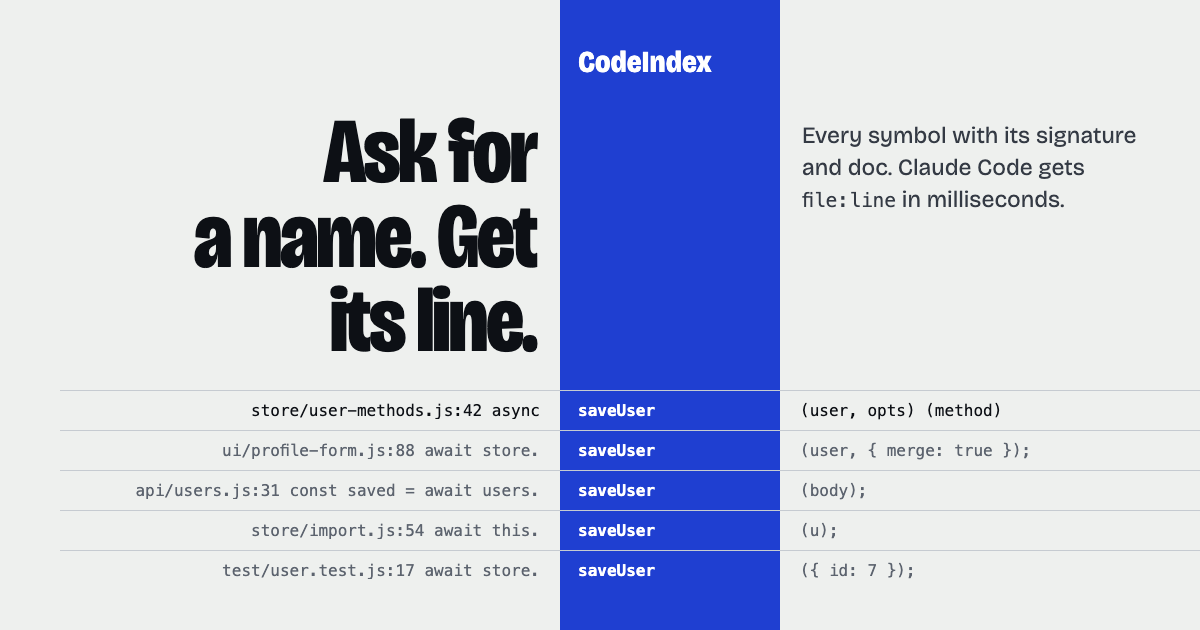
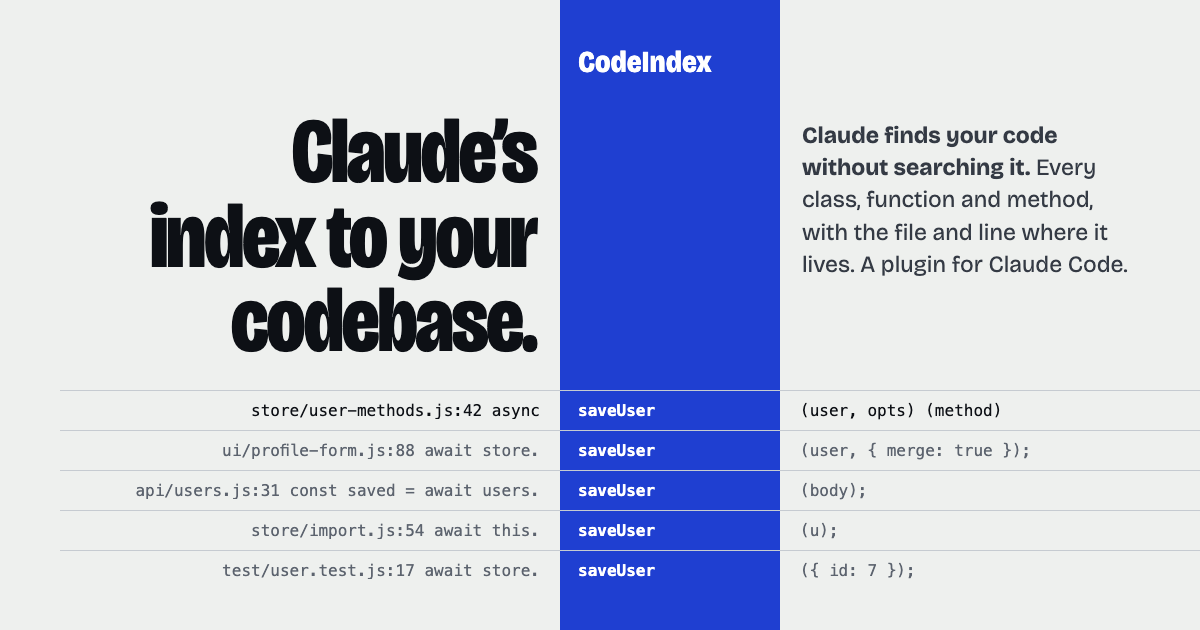
CodeIndex landing: Open Graph image and meta with the new slogan

Changed region(s): [[0.1233, 0.181, 0.4625, 0.573], [0.6475, 0.181, 0.9558, 0.3317], [0.6475, 0.3619, 0.925, 0.4524]]

diff --git a/plugins/code-index/index.html b/plugins/code-index/index.html
@@ -3,16 +3,16 @@
 <head>
 <meta charset="utf-8">
 <meta name="viewport" content="width=device-width, initial-scale=1">
-<title>CodeIndex — look up any symbol in your codebase</title>
+<title>CodeIndex — Claude’s index to your codebase</title>
 <meta name="description" content="CodeIndex keeps every class, function and method of your project with its signature and doc, so Claude Code answers “where is X?”, “who calls it?” and “what does this file need?” in milliseconds instead of searching the codebase again.">
 <meta property="og:type" content="website">
 <meta property="og:url" content="https://microbians.github.io/AI.SKILLS/plugins/code-index/">
-<meta property="og:title" content="CodeIndex — look up any symbol in your codebase">
-<meta property="og:description" content="Every symbol with its signature and doc. Claude Code gets file:line in milliseconds instead of searching the codebase again.">
+<meta property="og:title" content="CodeIndex — Claude’s index to your codebase">
+<meta property="og:description" content="Claude finds your code without searching it: every class, function and method, with the file and line where it lives. A plugin for Claude Code.">
 <meta property="og:image" content="https://microbians.github.io/AI.SKILLS/plugins/code-index/assets/og.png">
 <meta property="og:image:width" content="1200">
 <meta property="og:image:height" content="630">
-<meta property="og:image:alt" content="CodeIndex: lines of code aligned on the name saveUser inside a cobalt band">
+<meta property="og:image:alt" content="CodeIndex: Claude’s index to your codebase, with lines of code aligned on the name saveUser inside a cobalt band">
 <meta name="twitter:card" content="summary_large_image">
 <meta name="twitter:image" content="https://microbians.github.io/AI.SKILLS/plugins/code-index/assets/og.png">
 <link rel="preload" href="assets/fonts/BricolageGrotesque-latin.woff2" as="font" type="font/woff2" crossorigin>

diff --git a/plugins/code-index/assets/og.html b/plugins/code-index/assets/og.html
@@ -26,8 +26,8 @@ h1 { position: absolute; right: 664px; top: 110px; margin: 0; text-align: right;
 <body>
 <div class="band"></div>
 <div class="name">CodeIndex</div>
-<h1>Ask for<br>a name. Get<br>its line.</h1>
-<p class="lede">Every symbol with its signature and doc. Claude Code gets <span style="font-family:'Meslo Code',monospace;font-size:.85em">file:line</span> in milliseconds.</p>
+<h1>Claude’s<br>index to your<br>codebase.</h1>
+<p class="lede"><b>Claude finds your code without searching it.</b> Every class, function and method, with the file and line where it lives. A plugin for Claude Code.</p>
 <div class="rows">
   <div class="row hit"><span>store/user-methods.js:42  async</span><span>saveUser</span><span>(user, opts)   (method)</span></div>
   <div class="row"><span>ui/profile-form.js:88  await store.</span><span>saveUser</span><span>(user, { merge: true });</span></div>
